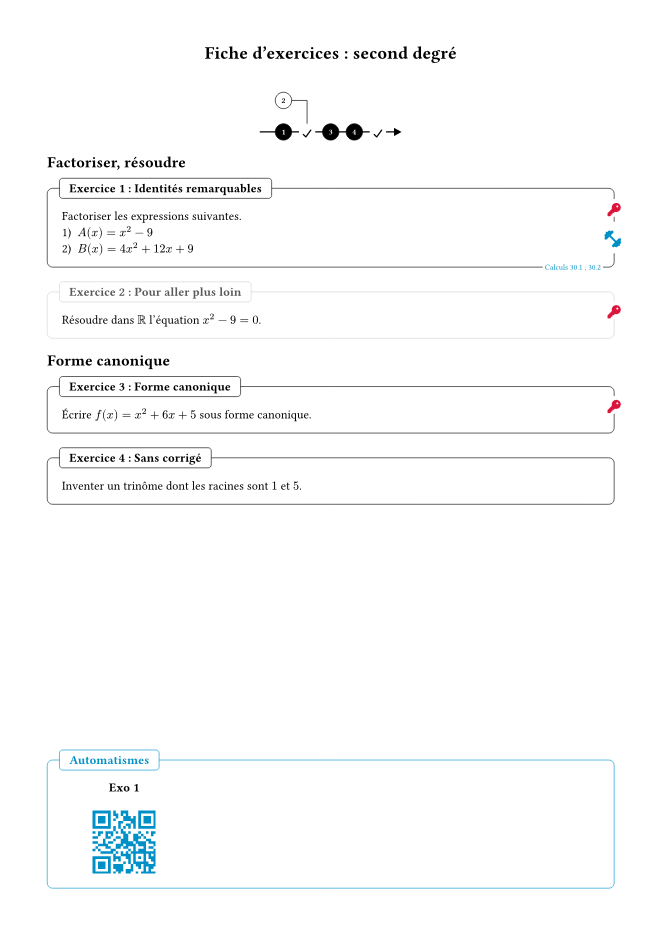
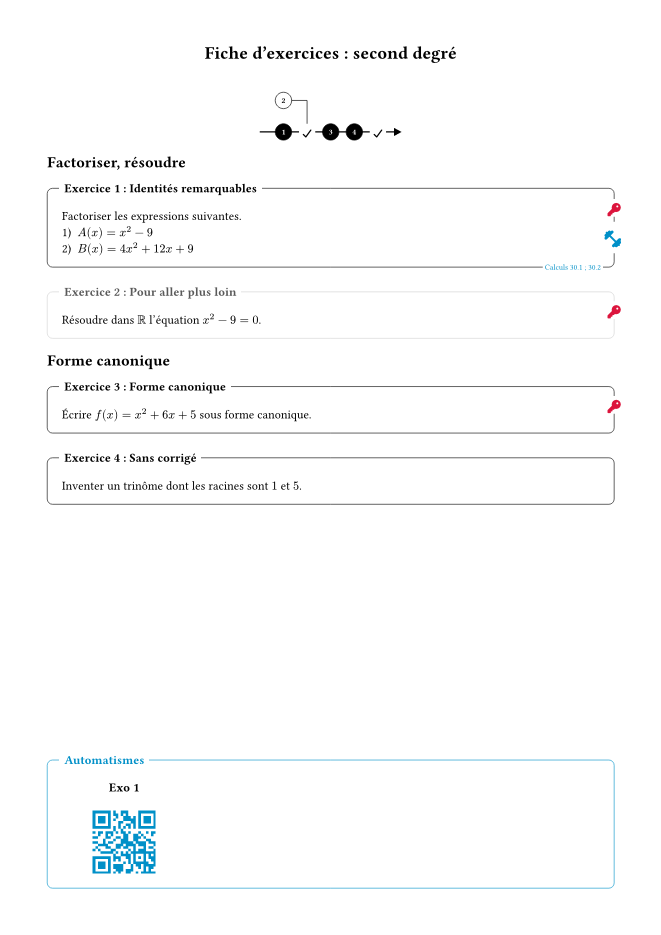
Quatre styles de cadre d'exercice (style-exercice), fond-blanc par défaut
- maquette(style-exercice: …) : "fond-blanc" (défaut), "etiquette-encadree",
  "bandeau", "etiquette-pleine" ; style-exercices(…) sans maquette.
- Le style s'applique aussi au bloc Automatismes.
- Beta-tests 140 à 143 ; README, CHANGELOG et exemple à jour.

diff --git a/README.md b/README.md
@@ -84,6 +84,7 @@ automatiquement, à la fin, le bloc **Automatismes** (QR codes) puis la
 | `colonnes-corriges` | `1` | nombre de colonnes de la Correction |
 | `correction-nouvelle-page` | `true` | la Correction commence sur une nouvelle page ; `false` : elle suit la fiche (indispensable pour une maquette dans `columns(…)` ou dans un cadre) |
 | `couleur-obligatoire` | `auto` | couleur des exercices obligatoires (`auto` = noir) |
+| `style-exercice` | `"fond-blanc"` | style des cadres d'exercice et du bloc Automatismes : `"fond-blanc"` (titre sans cadre, qui coupe le filet), `"etiquette-encadree"` (titre dans un petit cadre, à cheval sur le filet), `"bandeau"` (titre en haut du cadre, séparé de l'énoncé par un filet), `"etiquette-pleine"` (étiquette remplie de couleur, titre en blanc) |
 | `colonnes-automatismes` | `3` | nombre de QR codes par ligne |
 | `taille-qr` | `2cm` | côté des QR codes (agrandi automatiquement si l'URL est trop longue pour rester lisible) |
 | `couleur-fdr` | `black` | couleur de la feuille de route |
@@ -181,7 +182,8 @@ Chaque réglage existe aussi séparément, à appeler avant le premier exercice 
 - `reglages-couleurs(bleu-perso: …, rouge-perso: …)` ;
 - `reglages-corriges(mode: …, vers-solution: …, couleur-sol: …, titre-corrige: …, colonnes: …, nouvelle-page: …)`,
   où `mode` vaut `none`, `"apres"` ou `"fin"` ;
-- `couleur-exercices-obligatoires(couleur)`.
+- `couleur-exercices-obligatoires(couleur)` ;
+- `style-exercices(style)`, avec les mêmes valeurs que `style-exercice`.
 
 Il faut alors appeler soi-même, en fin de fiche et dans cet ordre,
 `liste-entrainements(colonnes: …, taille-qr: …)` puis `liste-corriges()`.

diff --git a/CHANGELOG.md b/CHANGELOG.md
@@ -39,3 +39,5 @@ Première version, sous licence LPPL 1.3c (celle de ProfMaquette).
 - `maquette(correction-nouvelle-page: false)` : maquette utilisable dans `columns(…)` ou un cadre.
 - Chaque `maquette` repart de l'exercice 1 (plusieurs fiches dans un même document).
 - Couleurs `bleu-perso` et `rouge-perso` modifiables.
+- `maquette(style-exercice: …)` : quatre styles de cadre, `"fond-blanc"` (défaut),
+  `"etiquette-encadree"`, `"bandeau"` et `"etiquette-pleine"` ; `style-exercices(…)` sans maquette.
